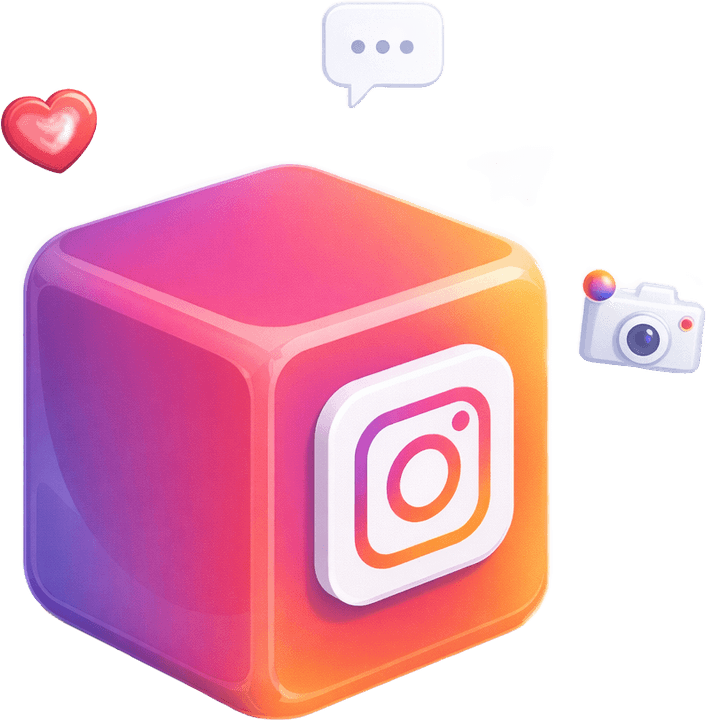
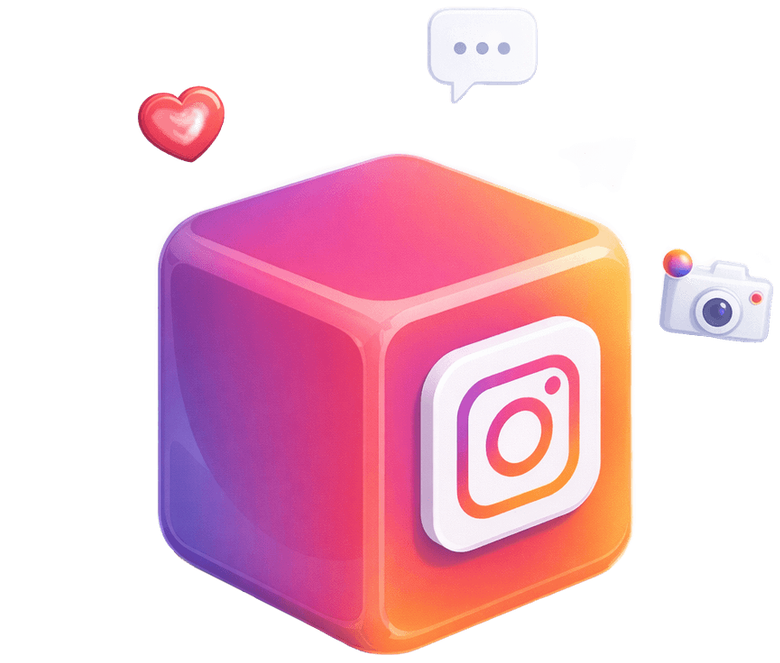
fix(uslugi): bake the platform cubes to one rendered size
Each cube was exported trimmed to its own content, so the cube body took a
different fraction of every file — 0.62 of the canvas width for LinkedIn, 0.96
for TikTok. CSS can only size the canvas, but the eye compares the cube, so
contain-fitting the seven into one box rendered them 248px to 323px wide.

The per-file exception this replaces was a fixed rem cap, so it stopped
tracking the others the moment they hit the min(100%, …) branch: the mismatch
came out worse on mobile (a 46% spread) than on the desktop it was written for.

Bake every cube body to a common 477px on a shared 780×663 canvas, so one width
rule sizes all seven at every viewport and no derived constants are left in CSS
to go stale behind an art swap. The homepage join-cta reads the same files and
inherits the fix. Sources and the pipeline are committed so it is re-runnable.

diff --git a/app/(frontend)/uslugi/[slug]/service.module.css b/app/(frontend)/uslugi/[slug]/service.module.css
@@ -237,15 +237,15 @@
   justify-content: center;
 }
 
+/* One width for all seven: the art is baked to a shared 780×663 canvas with the
+   cube body always 477px wide in the same spot (scripts/platform-cubes), so
+   sizing the canvas sizes the cube. Sizing the box only equalises the cube while
+   that stays true — the previous per-file exception here was a fixed rem cap,
+   which stopped tracking the others the moment they hit the 100% branch and
+   made the mismatch worse on mobile than on desktop. */
 .platformCube {
-  width: min(100%, 25rem);
+  width: min(100%, 27rem);
   filter: drop-shadow(0 40px 60px rgb(43 31 36 / 22%));
-}
-
-/* The TikTok art is portrait (564×720) where the others are landscape, so at a
-   uniform width its cube body reads oversized. Cap it narrower to match. */
-.platformCube[data-cube$="cube-tiktok.png"] {
-  width: min(100%, 21rem);
 }
 
 .platformDashboard {

diff --git a/app/(frontend)/uslugi/[slug]/service-page.tsx b/app/(frontend)/uslugi/[slug]/service-page.tsx
@@ -250,12 +250,12 @@ function Hero({ data, chrome }: { data: HeroData; chrome: Chrome }) {
 function PlatformMedia({ item }: { item: PlatformData }) {
   if (item.cube) {
     return (
-      <div className={s.platformCube} data-cube={item.cube}>
+      <div className={s.platformCube}>
         <Image
           src={item.cube}
           alt=""
-          width={520}
-          height={520}
+          width={780}
+          height={663}
           objectFit="contain"
           desktopSize="34vw"
           mobileSize="60vw"

diff --git a/scripts/platform-cubes/pipeline.py b/scripts/platform-cubes/pipeline.py
@@ -1,0 +1,164 @@
+#!/usr/bin/env python3
+"""Normalise the seven platform cubes onto one canvas so they render at one size.
+
+    python3 scripts/platform-cubes/pipeline.py
+
+The art is seven separate 3D renders: a rounded cube wearing a platform mark,
+surrounded by floating satellite icons (hearts, replies, bells). Each was
+exported trimmed to its own content, so the cube body occupies a different
+fraction of every file — 0.62 of the canvas width for LinkedIn, 0.96 for
+TikTok. CSS sizes the *canvas*. The eye compares the *cube*. Contain-fitting
+seven differently padded exports into one box therefore produces seven
+different cube sizes, which is what this pipeline exists to remove:
+
+  /uslugi/content   the cubes are width-bound in a min(100%, 27rem) box, so the
+                    canvas fraction passed straight through as a 30% spread in
+                    rendered cube width (LinkedIn 248px vs TikTok 323px).
+
+  homepage join-cta the cube box is wide (129x78), so every canvas is instead
+                    height-bound and the spread there was already only 4.5%.
+                    It is fed from the same files and inherits this fix.
+
+Output: every file gets an IDENTICAL canvas with the cube body at an IDENTICAL
+size and position, so one `width` rule sizes all seven correctly at every
+viewport. There are deliberately no per-platform numbers left in the CSS —
+those cannot survive an art swap, because nothing links them back to the file
+they were derived from.
+
+Requires: pillow, numpy, scipy.
+"""
+
+import os
+
+import numpy as np
+from PIL import Image
+from scipy import ndimage
+
+ROOT = os.path.dirname(os.path.dirname(os.path.dirname(os.path.abspath(__file__))))
+RAW = os.path.join(ROOT, "assets-src", "platform-cubes", "raw")
+OUT = os.path.join(ROOT, "public", "assets")
+WORK = os.path.join(ROOT, "assets-src", "platform-cubes", ".work")
+
+# Source stem -> published filename. The published names carry export hashes for
+# four of the seven and are referenced from lib/content/{uslugi,home}{,.en}.ts;
+# renaming them would touch four content files to no visual end.
+PLATFORMS = {
+    "facebook": "cube-facebook-70862a.png",
+    "instagram": "cube-instagram.png",
+    "tiktok": "cube-tiktok.png",
+    "x": "cube-x-5d9863.png",
+    "linkedin": "cube-linkedin.png",
+    "pinterest": "cube-pinterest-6e33ed.png",
+    "youtube": "cube-youtube.png",
+}
+
+# Every cube body is resampled to this width. 477px is Facebook's native cube,
+# which is also X's and (within 1px) YouTube's and Pinterest's — the four-file
+# cluster the set already agreed on. Standardising on it leaves those four
+# essentially untouched and moves only the three outliers, so the page keeps its
+# current visual weight. It costs LinkedIn a 6.7% upscale; on a soft 3D render
+# with no fine detail that is invisible, and the alternative (standardising down
+# to LinkedIn) would have shrunk the whole section by 7%.
+TARGET_CUBE_W = 477
+
+# Alpha above which a pixel counts as artwork. The renders have a soft outer
+# falloff, so a >0 test would drag the measured bounds into the haze.
+ALPHA_FLOOR = 60
+
+# Breathing room so no artwork sits on the outermost pixel row. Two files
+# (Instagram, LinkedIn) define the extreme overhangs and would otherwise land
+# flush against the border by construction; a pixel on the border maps onto a
+# half pixel when the browser contains 768px into ~432px and loses most of its
+# weight, which reads as a satellite icon fading at one edge only.
+PAD = 6
+
+# The satellite icons overlap the cube in several files (YouTube's bell touches
+# its top-left corner, Facebook's thumb its top edge), so a plain alpha bounding
+# box measures cube+icons and reads 5-10% too wide. Eroding by this radius first
+# severs those thin contacts, the largest surviving blob is unambiguously the
+# cube body, and dilating back by the same radius restores its true edge.
+SEPARATION_RADIUS = 10
+
+
+def cube_bbox(rgba):
+    """Bounding box of the cube body alone, with satellite icons excluded."""
+    art = np.array(rgba)[:, :, 3] > ALPHA_FLOOR
+    conn = ndimage.generate_binary_structure(2, 2)
+    cores, count = ndimage.label(
+        ndimage.binary_erosion(art, conn, iterations=SEPARATION_RADIUS)
+    )
+    areas = ndimage.sum(cores > 0, cores, range(1, count + 1))
+    cube = cores == int(np.argmax(areas)) + 1
+    body = ndimage.binary_dilation(cube, conn, iterations=SEPARATION_RADIUS) & art
+    ys, xs = np.where(body)
+    return xs.min(), ys.min(), xs.max() + 1, ys.max() + 1
+
+
+def main():
+    os.makedirs(WORK, exist_ok=True)
+
+    # Measure and scale first; the canvas can only be solved once every
+    # composition is at its final size.
+    plates = {}
+    for stem, published in PLATFORMS.items():
+        src = Image.open(os.path.join(RAW, f"{stem}.png")).convert("RGBA")
+        x0, y0, x1, y1 = cube_bbox(src)
+        scale = TARGET_CUBE_W / (x1 - x0)
+        art = src.resize(
+            (round(src.width * scale), round(src.height * scale)), Image.LANCZOS
+        )
+        plates[stem] = {
+            "published": published,
+            "art": art,
+            # Anchors, in the resampled image's own pixels: the cube's
+            # horizontal centre and its bottom edge.
+            "anchor_x": (x0 + x1) / 2 * scale,
+            "anchor_y": y1 * scale,
+            "native": (src.size, x1 - x0, scale),
+        }
+
+    # The cubes are registered to each other by centre-x and bottom-y — bottom
+    # because they sit on an implied ground plane, and centre rather than an
+    # edge because each is rotated slightly differently, so no single edge is
+    # common to all seven. The canvas is then the tightest box that still clears
+    # every composition's satellite icons: the widest left overhang plus the
+    # widest right overhang, measured from that shared anchor. Solving it from
+    # the overhangs rather than picking a round number is what guarantees no
+    # file is clipped.
+    left = max(p["anchor_x"] for p in plates.values())
+    right = max(p["art"].width - p["anchor_x"] for p in plates.values())
+    top = max(p["anchor_y"] for p in plates.values())
+    bottom = max(p["art"].height - p["anchor_y"] for p in plates.values())
+
+    canvas = (
+        int(np.ceil(left + right)) + PAD * 2,
+        int(np.ceil(top + bottom)) + PAD * 2,
+    )
+    anchor = (int(round(left)) + PAD, int(round(top)) + PAD)
+    print(f"canvas {canvas[0]}x{canvas[1]}  cube anchor {anchor}  width {TARGET_CUBE_W}")
+
+    sheet = Image.new("RGBA", (canvas[0] * 4, canvas[1] * 2), (145, 49, 85, 255))
+    for index, (stem, plate) in enumerate(plates.items()):
+        out = Image.new("RGBA", canvas, (0, 0, 0, 0))
+        offset = (
+            anchor[0] - round(plate["anchor_x"]),
+            anchor[1] - round(plate["anchor_y"]),
+        )
+        out.alpha_composite(plate["art"], offset)
+
+        verify = cube_bbox(out)
+        (nw, nh), native_cube, scale = plate["native"]
+        print(
+            f"  {stem:10s} {nw}x{nh} cube {native_cube} x{scale:.3f}"
+            f" -> cube ({verify[0]},{verify[1]})-({verify[2]},{verify[3]})"
+            f" w={verify[2] - verify[0]}"
+        )
+        out.save(os.path.join(OUT, plate["published"]), optimize=True)
+        sheet.alpha_composite(out, ((index % 4) * canvas[0], (index // 4) * canvas[1]))
+
+    sheet.save(os.path.join(WORK, "contact-sheet.png"))
+    print(f"contact sheet -> {os.path.relpath(os.path.join(WORK, 'contact-sheet.png'), ROOT)}")
+
+
+if __name__ == "__main__":
+    main()

diff --git a/assets-src/platform-cubes/README.md b/assets-src/platform-cubes/README.md
@@ -1,0 +1,56 @@
+# Platform cubes
+
+The seven 3D platform cubes — a rounded cube wearing a platform mark, ringed by
+floating satellite icons. Two surfaces render them from the same files:
+
+- `/uslugi/content` and its EN twin, one cube per platform row
+- the homepage `join-cta` post, where the llama holds one on its raised paw
+
+`raw/` holds the original exports, one per platform, committed so the bake is
+re-runnable. The pipeline lives at `scripts/platform-cubes/pipeline.py`; run it
+from the repo root:
+
+```sh
+python3 scripts/platform-cubes/pipeline.py
+```
+
+It writes `public/assets/cube-<platform>*.png` and a review contact sheet at
+`.work/contact-sheet.png` (gitignored).
+
+## What the bake is for
+
+Each raw export is trimmed to its own content, so the cube body occupies a
+different fraction of every file — 0.62 of the canvas width for LinkedIn, 0.96
+for TikTok. CSS can only size the canvas, but the eye compares the cube, so
+contain-fitting the raw files into one box produced seven different cube sizes:
+a 30% spread on `/uslugi/content` (LinkedIn 248px against TikTok 323px).
+
+The bake resamples every cube body to a common 477px and lays it on a shared
+780×663 canvas at a fixed position, so one `width` rule sizes all seven at every
+viewport and the homepage swap reads as a substitution rather than a resize.
+
+This replaced a per-file `width` exception in `service.module.css`. Do not bring
+that pattern back: it was a fixed `rem` cap, so it stopped tracking the other six
+as soon as they hit the `min(100%, …)` branch, and the mismatch it was meant to
+fix came out *worse* on mobile (a 46% spread) than on desktop.
+
+## Reviewing a re-bake
+
+Check `.work/contact-sheet.png` before committing. The cubes are laid out on the
+brand plum at their baked size, so an outlier is obvious against its neighbours.
+The pipeline also re-measures the cube in each file it has just written and
+prints the result — all seven must report `w=477` (±1px from rounding) at the
+same coordinates. That line is the real check; the sheet is for judging whether
+the art still looks right.
+
+Watch for a **clipped satellite icon**. The canvas is solved as the tightest box
+that clears every composition's overhang, so whichever file has the widest halo
+defines the edge and sits closest to it. Adding a platform with a further-flung
+icon grows the canvas for all seven, which is correct but shifts the cube-to-box
+ratio — re-derive the `27rem` in `.platformCube` from the new ratio if so.
+
+## Adding or replacing a platform
+
+Drop the new export in `raw/<platform>.png`, add it to `PLATFORMS` in the
+pipeline, and re-run. Nothing downstream carries per-file numbers, so no CSS
+needs touching unless the canvas ratio moved (above).
